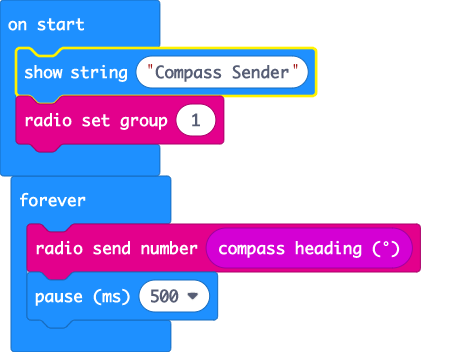
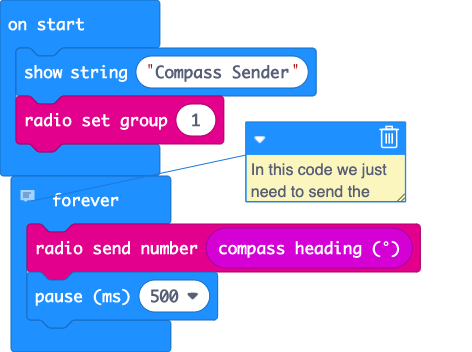
Update main.blocks, main.ts

diff --git a/main.ts b/main.ts
@@ -1,5 +1,6 @@
 basic.showString("Compass Sender")
 radio.setGroup(1)
+// In this code we just need to send the value of the compass heading to the other micro:bit and it can do the direction determination
 basic.forever(function () {
     radio.sendNumber(input.compassHeading())
     basic.pause(500)
